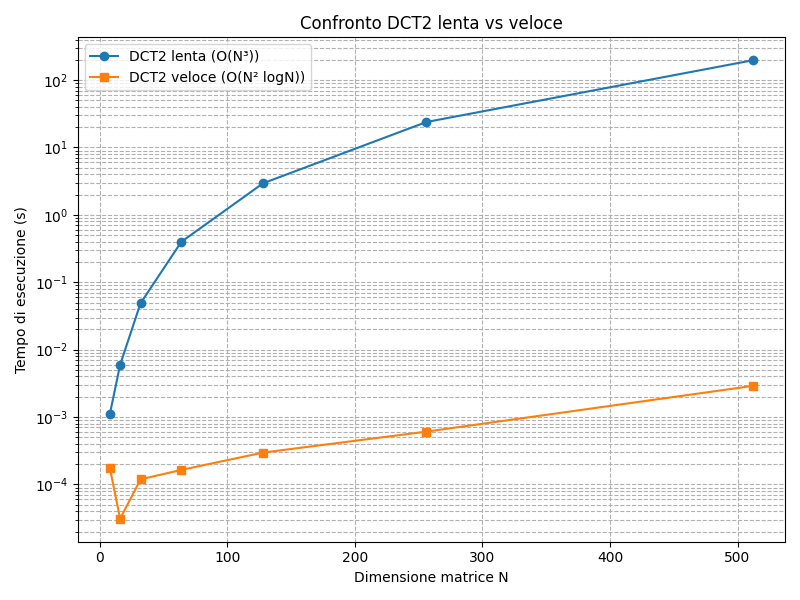
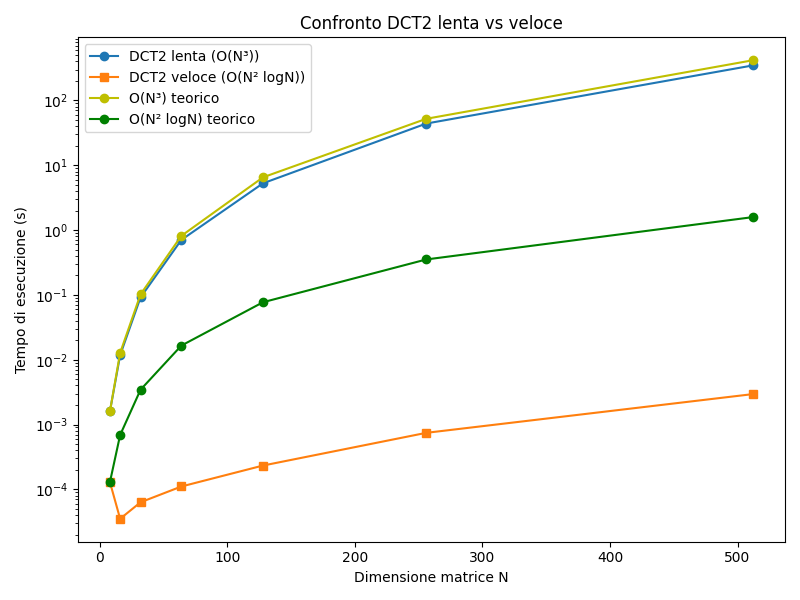
fix prima parte progetto

diff --git a/prima parte/test.py b/prima parte/test.py
@@ -60,6 +60,13 @@ def benchmark_dct2():
 
         print(f"N={N}: slow={elapsed_slow:.4f}s, fast={elapsed_fast:.4f}s")
 
+    # Curve teoriche per confronto
+    Ns_np = np.array(Ns, dtype=np.float64)
+
+    # Normalizza le curve teoriche per renderle confrontabili
+    curve_n3 = (Ns_np ** 3) / (Ns_np[0] ** 3) * times_slow[0]
+    curve_n2logn = (Ns_np ** 2 * np.log2(Ns_np)) / (Ns_np[0] ** 2 * np.log2(Ns_np[0])) * times_fast[0]
+
     # Crea la cartella results se non esiste
     os.makedirs("results", exist_ok=True)
 
@@ -74,11 +81,14 @@ def benchmark_dct2():
     plt.figure(figsize=(8, 6))
     plt.semilogy(Ns, times_slow, 'o-', label='DCT2 lenta (O(N³))')
     plt.semilogy(Ns, times_fast, 's-', label='DCT2 veloce (O(N² logN))')
+    plt.semilogy(Ns, curve_n3, 'yo-', label='O(N³) teorico')
+    plt.semilogy(Ns, curve_n2logn, 'go-', label='O(N² logN) teorico')
+
     plt.xlabel("Dimensione matrice N")
     plt.ylabel("Tempo di esecuzione (s)")
     plt.title("Confronto DCT2 lenta vs veloce")
     plt.legend()
-    plt.grid(True, which="both", linestyle="--")
+    plt.grid(False)
     plt.tight_layout()
 
     # Salva il grafico come immagine
@@ -89,6 +99,7 @@ def benchmark_dct2():
 if __name__ == "__main__":
 
     os.makedirs("results", exist_ok=True)
+
 
     print("========== TEST DI ACCURATEZZA ==========")
     print("Input (prima riga del blocco):")
